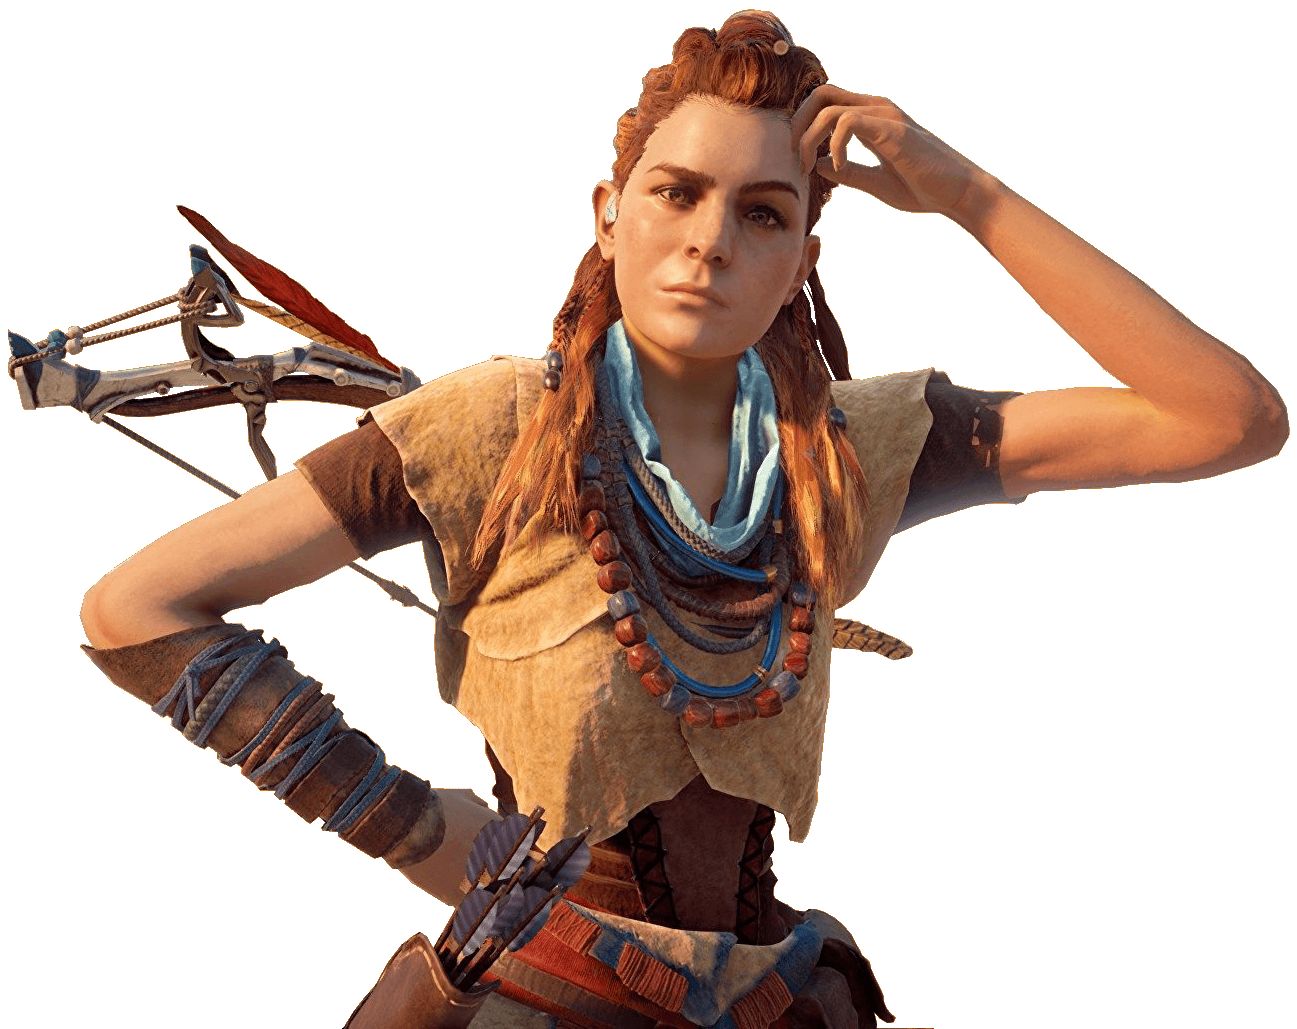
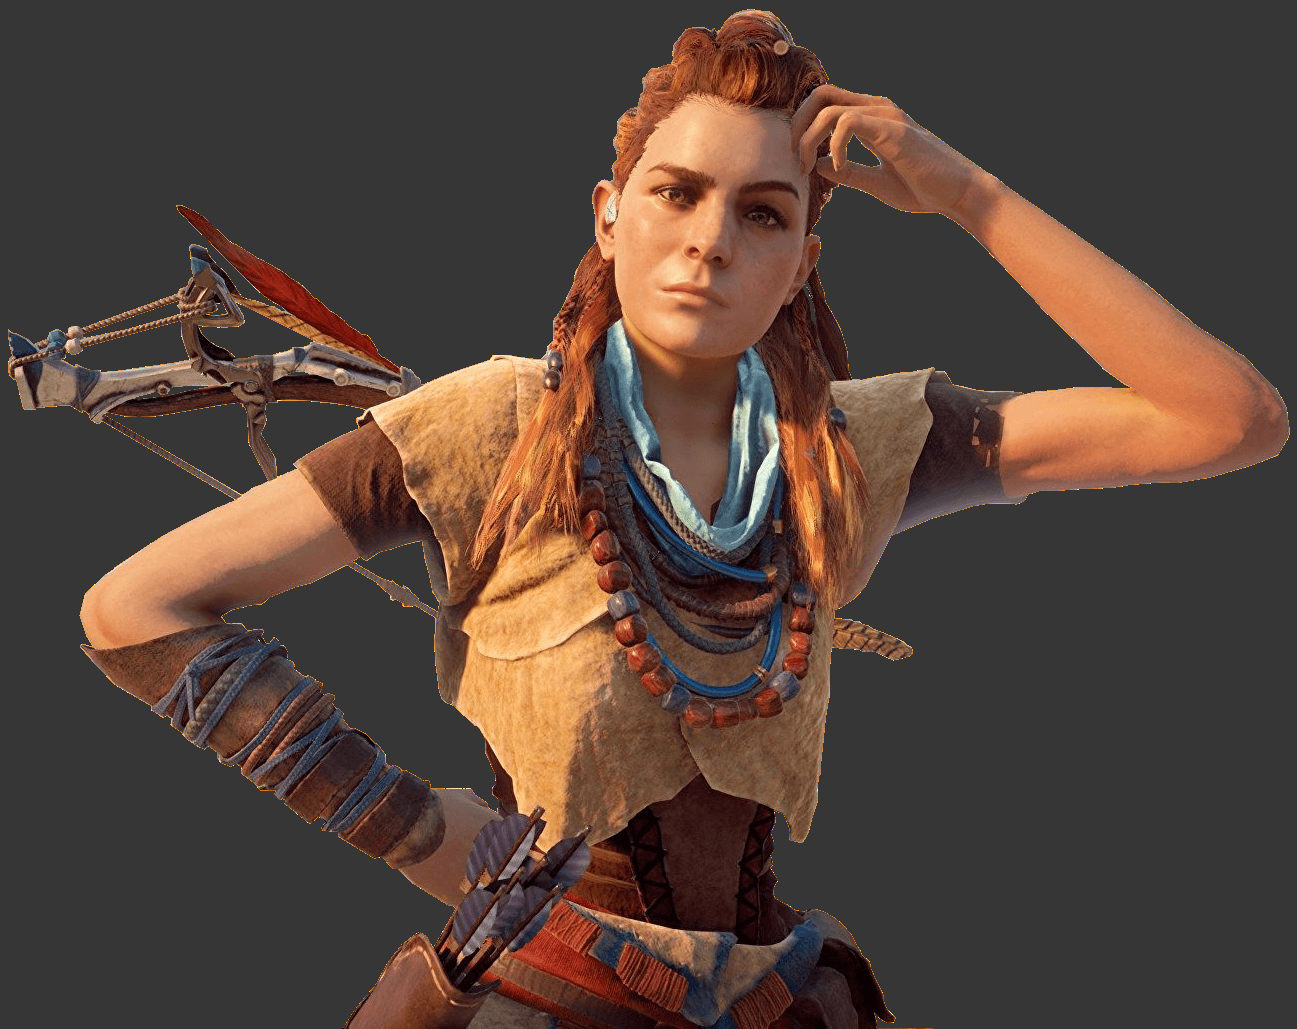
Edit made to background of 500 page

diff --git a/templates/error-500.html b/templates/error-500.html
@@ -1,11 +1,11 @@
 {% extends 'base.html' %}
 
 {% block content %}
-    <div class="container is-widescreen">
+    <div class="container is-widescreen has-background-dark">
         <div class="my-4 p-5">
-            <h1 class="has-text-centered title is-1">500</h1>
+            <h1 class="has-text-centered title is-1 has-text-light">500</h1>
             <div>
-                <p class="has-text-right subtitle is-4 pr-6">Well, this isn't right. <br> Sorry, it's not you, it's me. Click on our logo to check out our site!</p>
+                <p class="has-text-right subtitle is-4 pr-6 has-text-primary-light">Well, this isn't right. <br> Sorry, it's not you, it's me. Click on our logo to check out our site!</p>
         </div>
         <div class="error-500 has-text-centered">
             <img src="{{ url_for('static', filename='images/500-page-tinypng.png') }}" alt="Irishbecky's Easter Egg">
